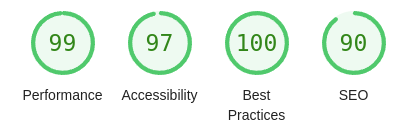
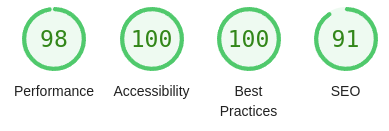
Minor changes

diff --git a/dam_frontend/src/components/HomeComponent.vue b/dam_frontend/src/components/HomeComponent.vue
@@ -7,44 +7,45 @@
             For the real time data, swipe to the Realtime tab.
         </p>
         <table>
+            <caption>Latest data retrieved from the dam's sensors</caption>
             <tr>
-                <th>Time of measurement</th>
+                <th scope="row">Time of measurement</th>
                 <td id="time"></td>
             </tr>
             <tr>
-                <th>Water level</th>
+                <th scope="row">Water level</th>
                 <td id="level"></td>
             </tr>
             <tr>
-                <th>Dam total capacity</th>
+                <th scope="row">Dam total capacity</th>
                 <td id="total_volume">30.000.000 m<sup>3</sup></td>
             </tr>
             <tr>
-                <th>Water actual volume </th>
+                <th scope="row">Water actual volume </th>
                 <td id="volume">23.000.000 m<sup>3</sup></td>
             </tr>
             <tr>
-                <th>Water actual volume percentage</th>
+                <th scope="row">Water actual volume percentage</th>
                 <td id="volume_perc">76.67 %</td>
             </tr>
             <tr>
-                <th>Humidity</th>
+                <th scope="row">Humidity</th>
                 <td id="humidity">76.67 %</td>
             </tr>
             <tr>
-                <th>Water temperature</th>
+                <th scope="row">Water temperature</th>
                 <td id="water_temp">8°C</td>
             </tr>
             <tr>
-                <th>Air temperature</th>
+                <th scope="row">Air temperature</th>
                 <td id="air_temp">21°C</td>
             </tr>
             <tr>
-                <th>Daily rain</th>
+                <th scope="row">Daily rain</th>
                 <td id="rain">2 mm</td>
             </tr>
             <tr>
-                <th>Atmospheric pressure</th>
+                <th scope="row">Atmospheric pressure</th>
                 <td id="pressure">912 mb</td>
             </tr>
         </table>

diff --git a/dam_frontend/src/css/home.scss b/dam_frontend/src/css/home.scss
@@ -81,6 +81,10 @@ td {
     font-weight: normal;
 }
 
+caption {
+    display: none;
+}
+
 h1>p {
     font-size: 1.5vw;
     font-weight: normal;
